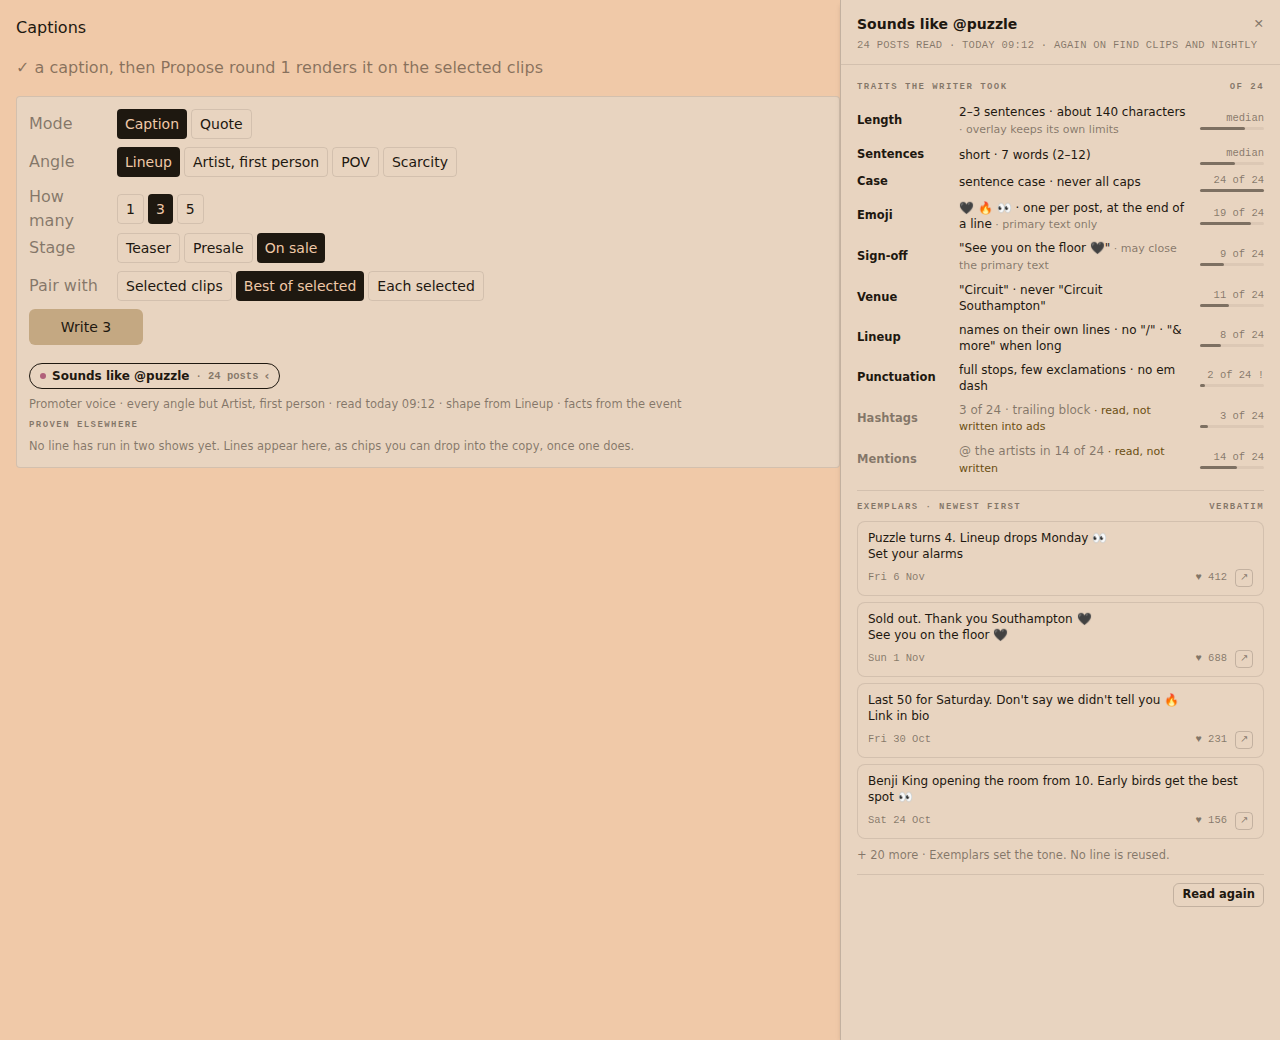
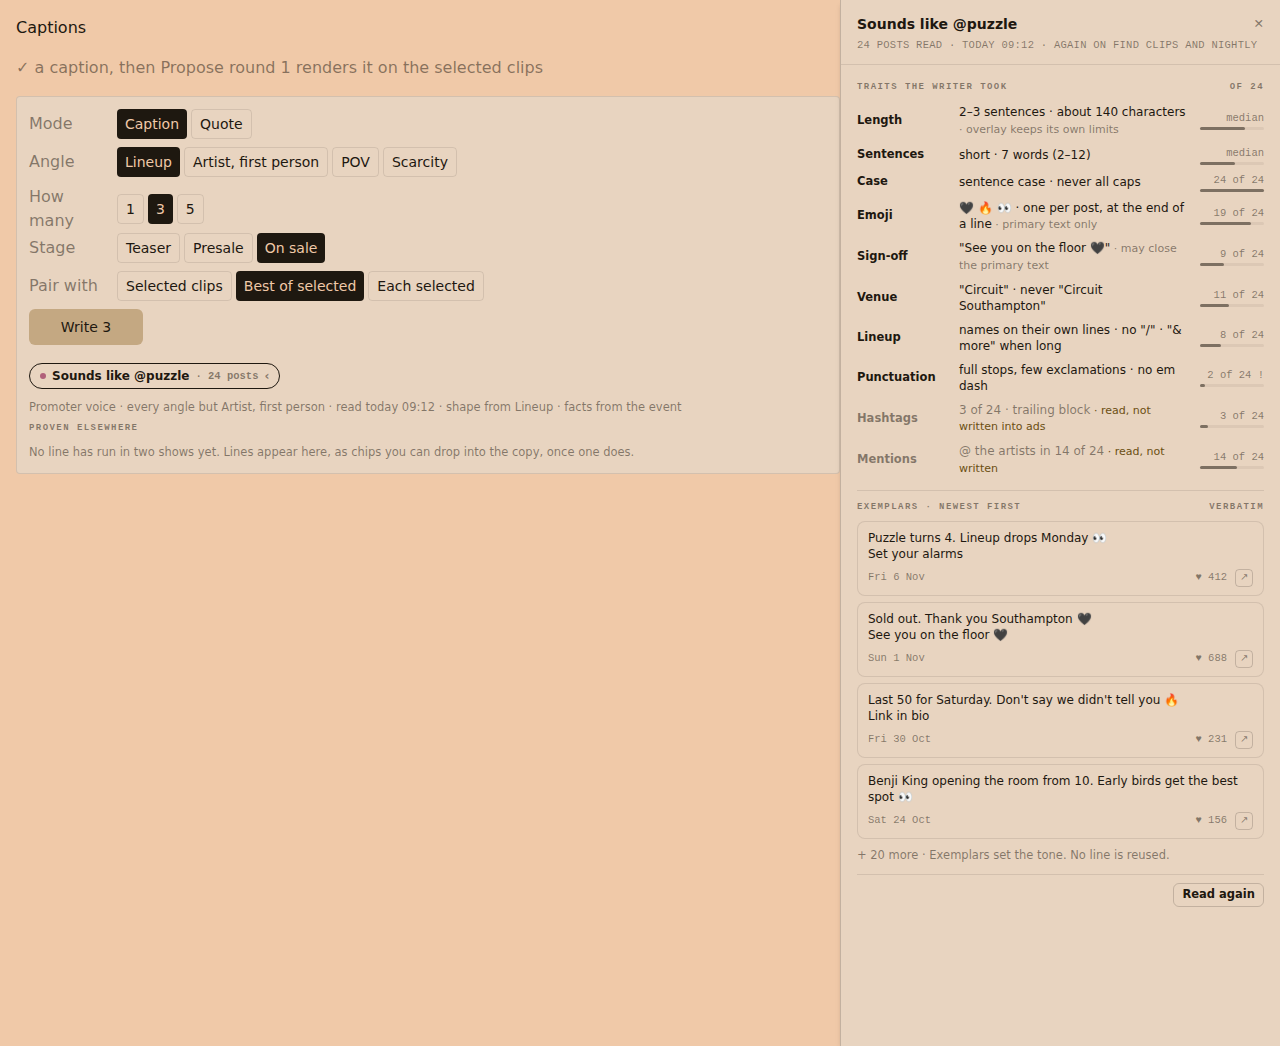
Grow the open voice frames with the space that was added back.

diff --git a/docs/session-logs/pr-1148-cursor-rail-3.md b/docs/session-logs/pr-1148-cursor-rail-3.md
@@ -38,4 +38,4 @@ Design fail round: the R22 sentence sits under the writer's Write button, labell
 
 Round 3: the 10px / 12px above Proven elsewhere is the block's own padding, and only while the contained voice sheet is open. A closed voice row and every non-voice frame keep the signed-off gap. The 18px from Write to the chip is unchanged. CLV2-393's open gap sits below the clip, so that frame does not move.
 
-Round 4: that 10px is added, not taken from the line spacing. The label keeps 3px under its glyphs, so the line below stays 16px, and the wrapped voice line keeps a 13px row gap, so the chip-to-line gap stays 12px. CLV2-1280 grows by 6px and CLV3-1280 by 3px.
+Round 4: that 10px is added, not taken from the line spacing. The label keeps 3px under its glyphs, so the line below stays 16px, and the wrapped voice line keeps a 13px row gap, so the chip-to-line gap stays 12px. CLV2-1280 grows by 6px and CLV3-1280 by 3px. Ubuntu pair 42820102839 / 42820114265.
